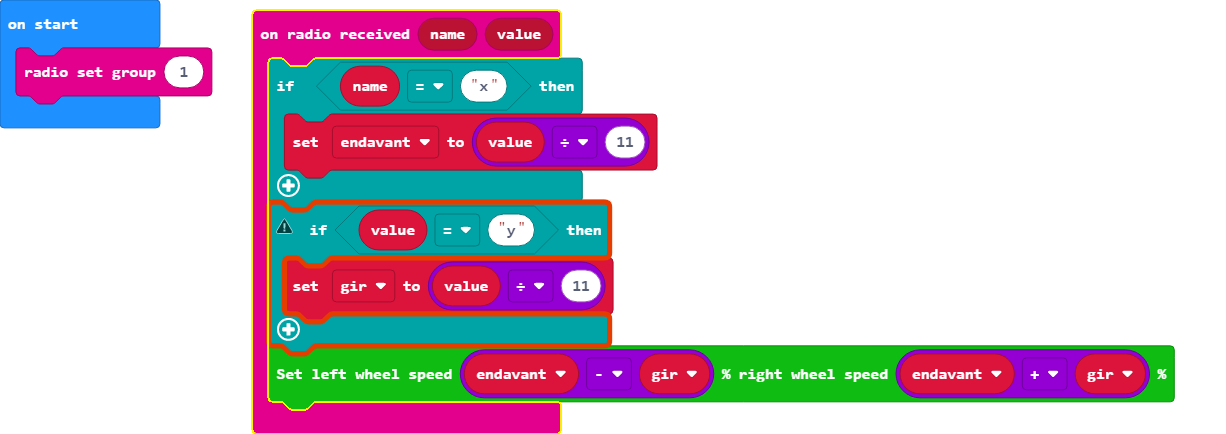
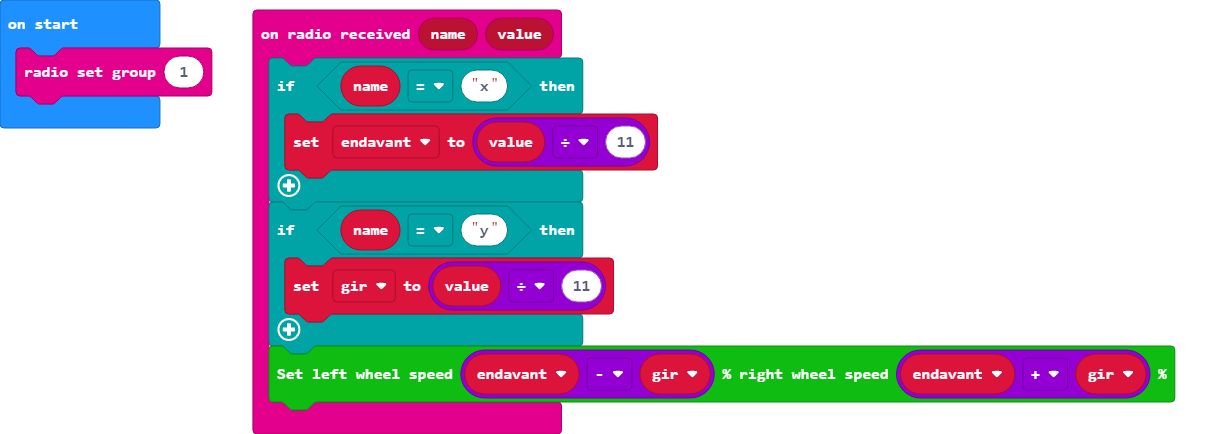
Update main.blocks, main.ts

diff --git a/main.ts b/main.ts
@@ -2,7 +2,7 @@ radio.onReceivedValue(function (name, value) {
     if (name == "x") {
         endavant = value / 11
     }
-    if (value == "y") {
+    if (name == "y") {
         gir = value / 11
     }
     cuteBot.motors(endavant - gir, endavant + gir)
